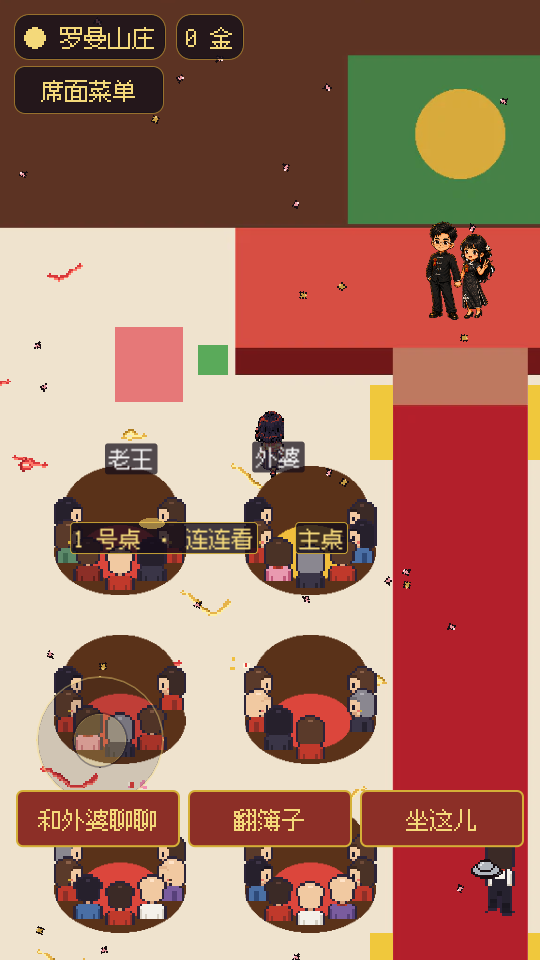
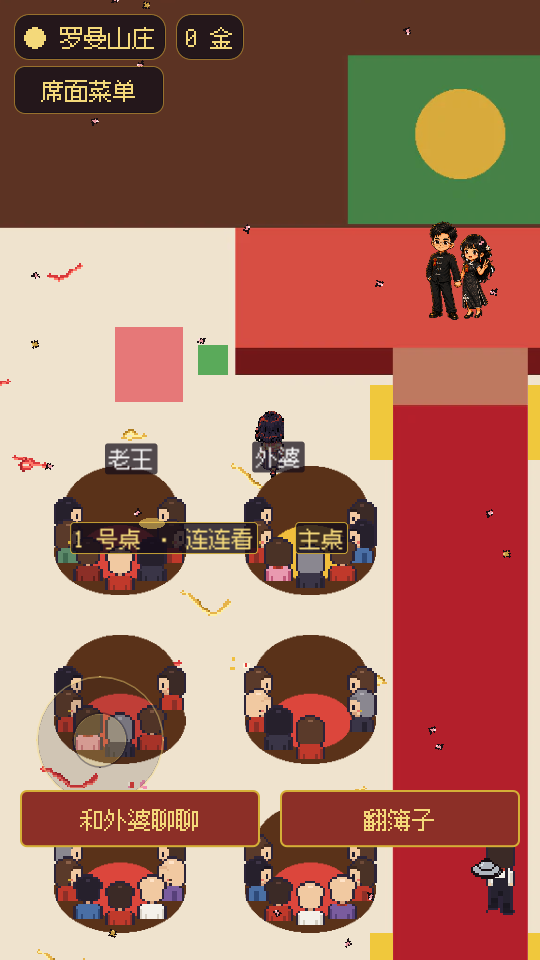
出阁宴主桌收尾（01 D 定）：别人走到主桌空椅子前不冒「坐这儿」（enterHall 55 桌厅多回 mainSeatOk，不部署）、被拒提示改「主桌是阿鱼家里人坐的」

diff --git a/server-claude/test/cf-mock.test.js b/server-claude/test/cf-mock.test.js
@@ -1235,6 +1235,7 @@ async function scenarioEnterHallMainTable() {
     check(res.data.me.table_id === 'T1' && res.data.me.chair_no === 1, `场景28 12 桌厅阿鱼本人照旧坐 T1（实际 ${JSON.stringify(res.data.me)}）`);
     check(res.data.tables.length === 12 && res.data.tables.every(t => !('main' in t)) && res.data.tables[0].id === 'T1', `场景28 12 桌厅返回 12 桌、没有主桌（实际 ${res.data.tables.map(t => t.id).join(',')}）`);
     check(JSON.stringify(Object.keys(res.data.tables[0])) === JSON.stringify(['id', 'reserved', 'seats']), `场景28 12 桌厅每桌字段跟原来一样（实际 ${Object.keys(res.data.tables[0])}）`);
+    check(!('mainSeatOk' in res.data), '场景28 12 桌厅不回 mainSeatOk，返回跟原来一样');
   }
 
   for (const flag of [false, true]) {
@@ -1249,6 +1250,9 @@ async function scenarioEnterHallMainTable() {
       check(tables[1].id === 'T1' && tables[1].reserved === true && tables[54].id === 'T54' && tables.slice(1).every(t => !t.main), `场景28 开关${flag} 主桌后面是 T1..T54`);
       check(tables.length * 10 === 550, `场景28 开关${flag} 主桌 + 54 桌 = 550 把椅子`);
       check(tables[0].seats.length === 1 && tables[0].seats[0].openid === 'AYU', `场景28 开关${flag} 主桌上坐着阿鱼`);
+      check(res.data.mainSeatOk === true, `场景28 开关${flag} 阿鱼本人 mainSeatOk 是 true（实际 ${res.data.mainSeatOk}）`);
+      res = await enterAs(sdk, state, 'AYU');
+      check(res.data.mainSeatOk === true && res.data.me.table_id === 'MAIN', `场景28 开关${flag} 阿鱼再进厅（不是第一次）mainSeatOk 照样 true（实际 ${res.data.mainSeatOk}）`);
       res = await enterAs(sdk, state, 'TOR');
       check(res.data.me.table_id === 'MAIN' && res.data.me.chair_no === 2, `场景28 开关${flag} Toretto 本人（有邀请人）也坐主桌，椅子取最小空号 2（实际 ${JSON.stringify(res.data.me)}）`);
       res = await enterAs(sdk, state, 'a1');
@@ -1260,6 +1264,9 @@ async function scenarioEnterHallMainTable() {
       res = await enterAs(sdk, state, 'x1');
       check(res.data.me.table_id !== 'MAIN', `场景28 开关${flag} 别的枝不进主桌（实际 ${JSON.stringify(res.data.me)}）`);
       check(res.data.tables[0].seats.map(s => s.openid).join(',') === 'AYU,TOR', `场景28 开关${flag} 主桌上只有阿鱼、Toretto`);
+      check(res.data.mainSeatOk === false, `场景28 开关${flag} 别人 mainSeatOk 是 false（实际 ${res.data.mainSeatOk}）`);
+      res = await enterAs(sdk, state, 'x1');
+      check(res.data.mainSeatOk === false, `场景28 开关${flag} 别人再进厅 mainSeatOk 还是 false（实际 ${res.data.mainSeatOk}）`);
     });
 
     // 54 桌全坐满、主桌只坐了阿鱼：别人进来去长凳，不进主桌；Toretto 本人照样坐主桌

diff --git a/server-claude/cloudfunctions/enterHall/index.js b/server-claude/cloudfunctions/enterHall/index.js
@@ -70,9 +70,11 @@ exports.main = async () => {
   mySeat = mySeat && mySeat.data;
   const firstVisit = !mySeat;
   let tableWasEmpty = false;
+  let vip = null;   // 第一次进厅分座时读；55 桌厅回 mainSeatOk 时没读过再读一次
 
   if (!mySeat) {
-    const [{ tables, mainTable, byTable }, vip] = await Promise.all([loadTables(), loadVip()]);
+    let tables, mainTable, byTable;
+    [{ tables, mainTable, byTable }, vip] = await Promise.all([loadTables(), loadVip()]);
     // 长凳门槛看 config.BANQUET_BENCH_ONLY_WHEN_FULL（false 旧规矩 / true 普通桌全满才去长凳），规矩见 rules/banquet.js；
     // me 只在新规矩下用：阿鱼/Toretto 自己没有邀请人时也能坐前两桌
     // mainTable 只有 55 桌厅才有：阿鱼、Toretto 本人先坐主桌（12 桌厅是 null，跟原来一样）
@@ -195,9 +197,7 @@ exports.main = async () => {
     gift_coins: typeof rd.gift_coins === 'number' ? rd.gift_coins : 0,
   };
 
-  return {
-    ok: true,
-    data: {
+  const data = {
       me: { table_id: mySeat.table_id, chair_no: mySeat.chair_no },
       // 55 桌厅：主桌排第一项，带 main:true；12 桌厅没有这一项，跟原来一样
       tables: (MAIN_ID ? [{ id: MAIN_ID, main: true, reserved: false, seats: byTableNow[MAIN_ID] || [] }] : [])
@@ -207,6 +207,9 @@ exports.main = async () => {
       arrival,
       names,
       mine,
-    },
   };
+  // 55 桌厅才有：我是不是阿鱼、Toretto 本人（主桌 1、2 号能坐）。客户端别人走到那两把空椅子前就不冒「坐这儿」（01 D 9/29）。
+  // 12 桌厅不回这个字段，返回跟原来一样
+  if (MAIN_ID) data.mainSeatOk = (vip || await loadVip()).has(OPENID);
+  return { ok: true, data };
 };

diff --git a/godot/回执/出阁宴主桌-回执.md b/godot/回执/出阁宴主桌-回执.md
@@ -25,8 +25,10 @@
 | 后厅休息间（蓝图 3.3，`docs/罗曼山庄-第一关蓝图-v0.2.md` 第 328、334、344、470、505 行；`HANDOFF.md` 第 150、234 行） | 看不到人 | 蓝图原计划「新郎妈妈坐休息间（待阿鱼确认要不要）」。现在没画，休息间只有一件外套 | 出阁宴没有男方父母，这个 NPC 该删；休息间那句话要重新想 |
 | `godot/assets/backhall/lines.json` 的 lounge | 看得到【待补】和按钮「外套」 | 依据里写「新郎家人名单没给之前休息间没有人、只有一件外套」 | 同上。字面上玩家只看到「外套」和【待补】 |
 | `godot/scripts/sprites.gd` 第 221 行 | 看不到（注释） | 「休息间的新郎妈妈不画」 | 同上 |
-| `godot/scripts/main.gd` 里换主桌被拒的提示 | 看得到 | 「主桌是**新人**家里人坐的」 | 「新人家里人」听着像两家人，建议改成「主桌是阿鱼家里人坐的」，待定 |
+| `godot/scripts/main.gd` 里换主桌被拒的提示 | 看得到 | 原来是「主桌是**新人**家里人坐的」 | **已改**（01 D 9/29 定）：「主桌是阿鱼家里人坐的」 |
 | `godot/scripts/stage_signs.gd` 第 2 行（婚礼台横幅） | 看不到（阿鱼 9/28 已删了横幅，55 桌厅不用） | 「爱女：阿鱼 & 贤婿：Toretto」 | 是娘家口吻，跟出阁宴对得上；只是现在不显示 |
+
+**后厅「新郎妈妈」（01 D 9/29 定）：** 先记在这里，后厅开工时再定删不删、休息间那句话说什么。这次没动。
 
 迎宾院、宴会厅、后厅麻将室、厨房、看人卡片、敬酒、翻簿子、进厅小卡、席面菜单里，都没有「男方、公婆、亲家、婆家、新郎家、新郎父母」这类字。迎宾院的「新娘爸爸」「新娘妈妈」是阿鱼这边的，和出阁宴对得上。
 
@@ -41,12 +43,16 @@
 | 谁 | 阿鱼（本人的号，空着） | Toretto（本人的号，空着） | 爷爷 | 奶奶 | 爸爸 | 妈妈 | 弟弟 | 弟妹 | 外公 | 外婆 |
 
 - 阿鱼、Toretto 坐面朝大门的两把，爷爷奶奶挨着 Toretto 那边，外公外婆挨着阿鱼那边，爸妈和弟弟弟妹坐前排。这是 02 排的，阿鱼没给座次。
-- **1、2 号：** 服务端进厅分主桌取最小的空号，正好是这两把。本人没来就空着，新人照旧站在台上。没给这两把放 NPC，不然台上、桌上会有两个阿鱼。
+- **1、2 号：** 服务端进厅分主桌取最小的空号，正好是这两把。本人没来就空着，新人照旧站在台上。**不放阿鱼、老公 NPC（01 D 9/29 定）。**
+- **别的玩家走到 1、2 号空椅子跟前不冒「坐这儿」（01 D 9/29 定）：**
+  - enterHall 在 55 桌厅多回一个 `mainSeatOk`（我是不是阿鱼、Toretto 本人），12 桌厅不回，返回跟原来一样；
+  - 不是本人，整张主桌走近都不冒「坐这儿」；本人才在 1、2 号冒；
+  - 服务端加了，没部署；电脑上的假服务端也回这个字段（`fake_main_ok`，默认不是本人）。
 - **3～10 号：** 8 位家里人都是 NPC。长相照旧用现画的宾客长相（泛称，不追真人），爷爷奶奶、外公外婆没有特意画成老人。
 - 家里人的椅子：
   - 走近不冒「坐这儿」；
   - 阿鱼本人想换过去，服务端回「这把有人坐了」；
-  - 别人换主桌照旧回「主桌是新人家里人坐的」。
+  - 别人硬换主桌（比如老版客户端）回「主桌是阿鱼家里人坐的」。
 
 ### 走过去聊天
 
@@ -56,16 +62,18 @@
   - 话写在 `assets/main_table_lines.json`，按称呼填，现在全是【待补】。
   - 聊什么以后派支线。
   - 按钮字原来想写「和外婆说说话」，三个按钮并排时只有 164 宽，会截成省略号，所以改成「和外婆聊聊」。
-- 截图：`回执/出阁宴主桌-站在外婆跟前.png`。外婆头上亮着称呼，底下「和外婆聊聊／翻簿子／坐这儿」。那个「坐这儿」是 1 号空椅，见风险 2。
+- 截图：`回执/出阁宴主桌-站在外婆跟前.png`。外婆头上亮着称呼，底下「和外婆聊聊／翻簿子」；站在 1 号空椅旁边，不冒「坐这儿」。
+- 称呼「走近谁亮谁」01 D 9/29 定可以。
 
 ### 服务端（没部署）
 
 - `config.js` 加了 `BANQUET_MAIN_VIP_CHAIRS: [1, 2]`。
+- `enterHall`：55 桌厅多回 `mainSeatOk`（是不是阿鱼、Toretto 本人），第一次进厅和以后进厅都回；12 桌厅不回。
 - `banquet.js`：
   - 主桌只给阿鱼、Toretto 本人 1、2 号两把；
   - 本人换到 3～10 号回 seat_taken；
   - 主桌和普通桌一样 10 座。
-- 测试：rules 369、cf-mock 277、words 195，全过。
+- 测试：rules 369、cf-mock 286（加了 mainSeatOk 本人、别人、再进厅、12 桌厅不回）、words 195，全过。
 - 电脑上的假服务端：主桌照旧 10 座，换主桌回 main_table_only_family。
 
 ## 3. 故事卡
@@ -79,6 +87,7 @@
 - `test_hall_big` 这次加了：
   - 7：没故事不出卡、有故事的卡上只有桌号和故事；
   - 7b：主桌普通 10 座、8 位家里人、1 和 2 号空着、称呼走近谁亮谁、「和外婆聊聊」点了说【待补】、走远按钮收起、家里人椅子不冒「坐这儿」；
+    别人站在 1 号空椅跟前不冒「坐这儿」，本人（mainSeatOk）才冒；被拒提示「主桌是阿鱼家里人坐的」；假服务端回 mainSeatOk；
   - 全厅 550 把椅子全走得到；
   - 假服务端主桌 3 号拒、11 号 bad_request。
 - 客户端测试 28 个全过，`test_map` 照旧只打印没有 RESULT 行；桥测试过；导入干净。第 44 版厅照旧，有测试守着。
@@ -88,9 +97,9 @@
 
 ## 风险
 
-1. **称呼只亮一位、聊天用底下按钮，是我替 01 做的判断。** 01 说「点这些 NPC 聊天」；点人本身，得在画面上判断点到谁，55 桌厅里人挤，容易点错，所以走近出按钮，和「看看 老王」一样。要改成直接点人请 01 说。
-2. **普通客人走到主桌 1、2 号空椅子跟前，还是会冒「坐这儿」**，点了被拒，提示「主桌是新人家里人坐的」。客户端不知道自己是不是阿鱼本人（服务端没回这个）。要藏掉，得让 enterHall 多回一个字段。
-3. **主桌平时只坐 8 位，1、2 号空着**，看着不算坐满。
-4. **长相是随机的现画宾客**，外婆不一定是白头发，爸爸也不一定像男的。要对上得给家里人单独定长相，不能照真人画。
-5. **第 44 版老代码里一个小毛病（没改）：** 别人头上的名字牌、桌牌是先量大小再放进画面的，量出来偏窄，牌子会往右歪一点。写家里人称呼时发现的，称呼那块已经改对了；老的没动，免得碰第 44 版。要不要修请 01 定。
-6. **交接文件夹给 GPT 的北边三样没动，还是 v3.2**，和现在一致。
+1. **聊天是走近出按钮，不是直接点人**（55 桌厅人挤，点人容易点错，和「看看 老王」一样）。要改成直接点人请 01 说。
+2. **主桌平时只坐 8 位，1、2 号空着**（01 定不放 NPC）。
+3. **长相是随机的现画宾客**，外公外婆、爷爷奶奶不一定是白头发，爸爸也不一定像男的。要对上得给家里人单独定长相，不能照真人画。
+4. **名字牌、桌牌往右歪一点的第 44 版老毛病没改**，01 定下次派。
+5. **`mainSeatOk` 只在服务端代码里，没部署。** 真机上还是 12 桌服务端、不回这个字段；客户端当作「不是本人」，主桌整张不冒「坐这儿」，阿鱼本人也不冒。部署 55 桌服务端时一起上。
+6. **交接文件夹给 GPT 的北边三样没动，还是 v3.2**，和现在一致（01 确认不用动）。
